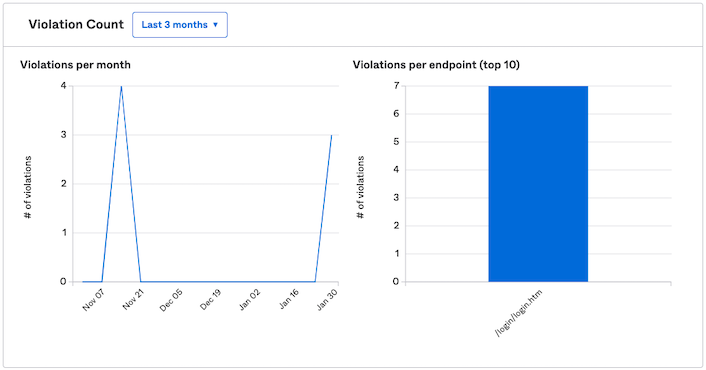
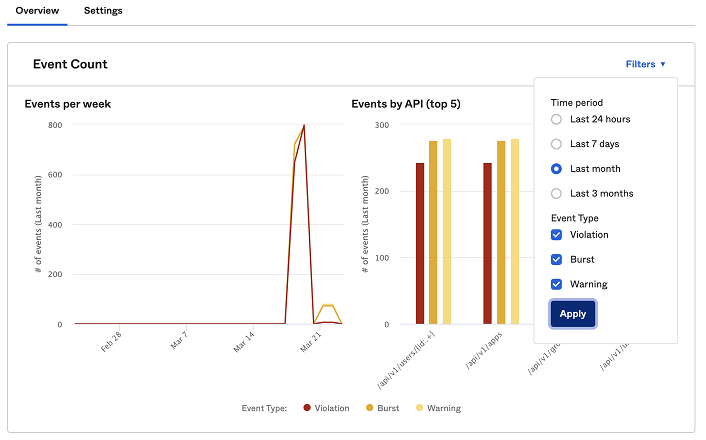
first update to rl dashboard page including two image updates

diff --git a/packages/@okta/vuepress-site/docs/reference/rl-dashboard/index.md b/packages/@okta/vuepress-site/docs/reference/rl-dashboard/index.md
@@ -10,7 +10,7 @@ The rate limit dashboard is a tool that helps you understand the use of each API
 
 * The ability to track the rate limit's consumption.
 * The ability to change rate limit settings and customize the warning threshold.
-* Notification alerts when you're about to hit or have hit the rate limit.
+* Notification alerts when you're about to hit, have hit the rate limit, or exceeded the rate limit (burst rate limits).
 * The ability for you to investigate the issue when an API has reached the rate limit.
 
 The following describes some typical reasons for viewing the dashboard:
@@ -44,17 +44,17 @@ In the Admin Console, go to **Reports** > **Rate Limits**. The rate limits repor
 
 ![Displays the rate limits dashboard to monitor and browse rate limit usage.](/img/rl_dashboard6.png)
 
-The **Overview** tab provides you with graphs that plot the number of violations over a three-month period and is based on system log events. It also provides a table that lists your org's APIs and their corresponding current rate limits, violations and warnings. See [Browse and monitor rate limit usage](#browse-and-monitor-rate-limit-usage).
+The **Overview** tab provides you with graphs that plot the number of events (violations, bursts, and warnings) over a period of time and is based on system log events. Use the **Filters** dropdown menu, to select the time period and events you want to view. It also provides a table that lists your org's APIs and their corresponding current rate limits, violations, bursts, and warnings. See [Browse and monitor rate limit usage](#browse-and-monitor-rate-limit-usage).
 
 The **Settings** tab allows you to change the per client rate limit settings and customize the threshold for warning notifications when the API's rate limit is exceeded. See [Change rate limit settings](#change-rate-limit-settings).
 
 ### Browse and monitor rate limit usage
 
-#### Violation graphs
+#### Event count graphs
 
-The Violations line graph plots the number of violations over the selected time period, which can be the last 24 hours, last 7 days, last month, or last 3 months. The Violations per API bar graph shows the top ten number of violations by API over the same time period.
+The Event Count graph plots the number of violations, bursts, and warnings over the selected time period, which can be the last 24 hours, last 7 days, last month, or last 3 months. The Events per API bar graph shows the top ten number of events by API over the same time period.
 
-![Displays the violations over a period of time graph and the top 10 endpoint violations bar graph.](/img/rl_dashboard7.png)
+![Displays the events (violations, bursts, and warnings) over a period of time graph and the top 10 endpoint violations bar graph.](/img/rl_dashboard7.png)
 
 You can hover over the line graph or bar graph to get more details. The details also include a link to the system log where you can view filtered events specific to that API and time period.
 
